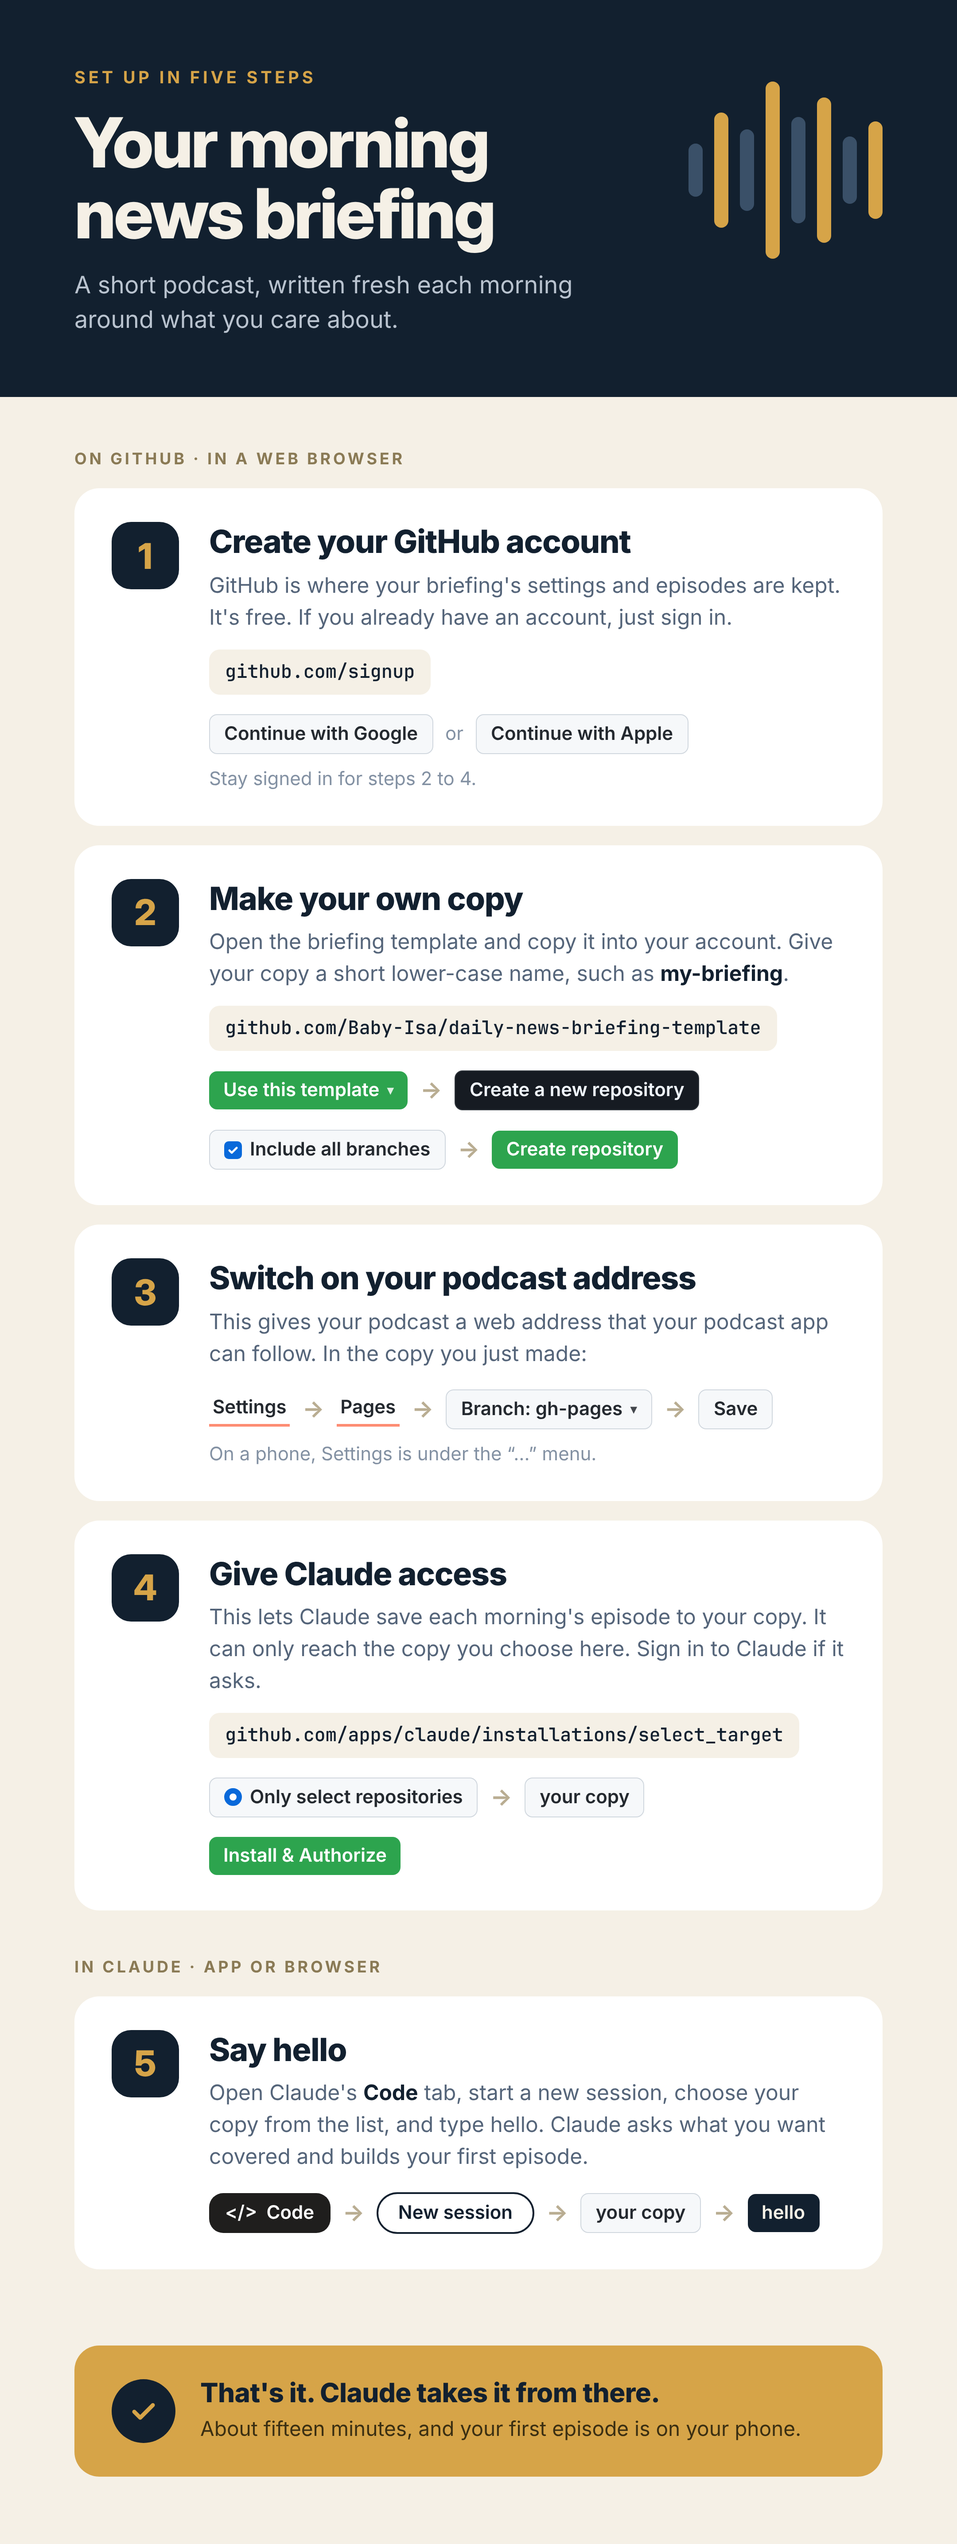
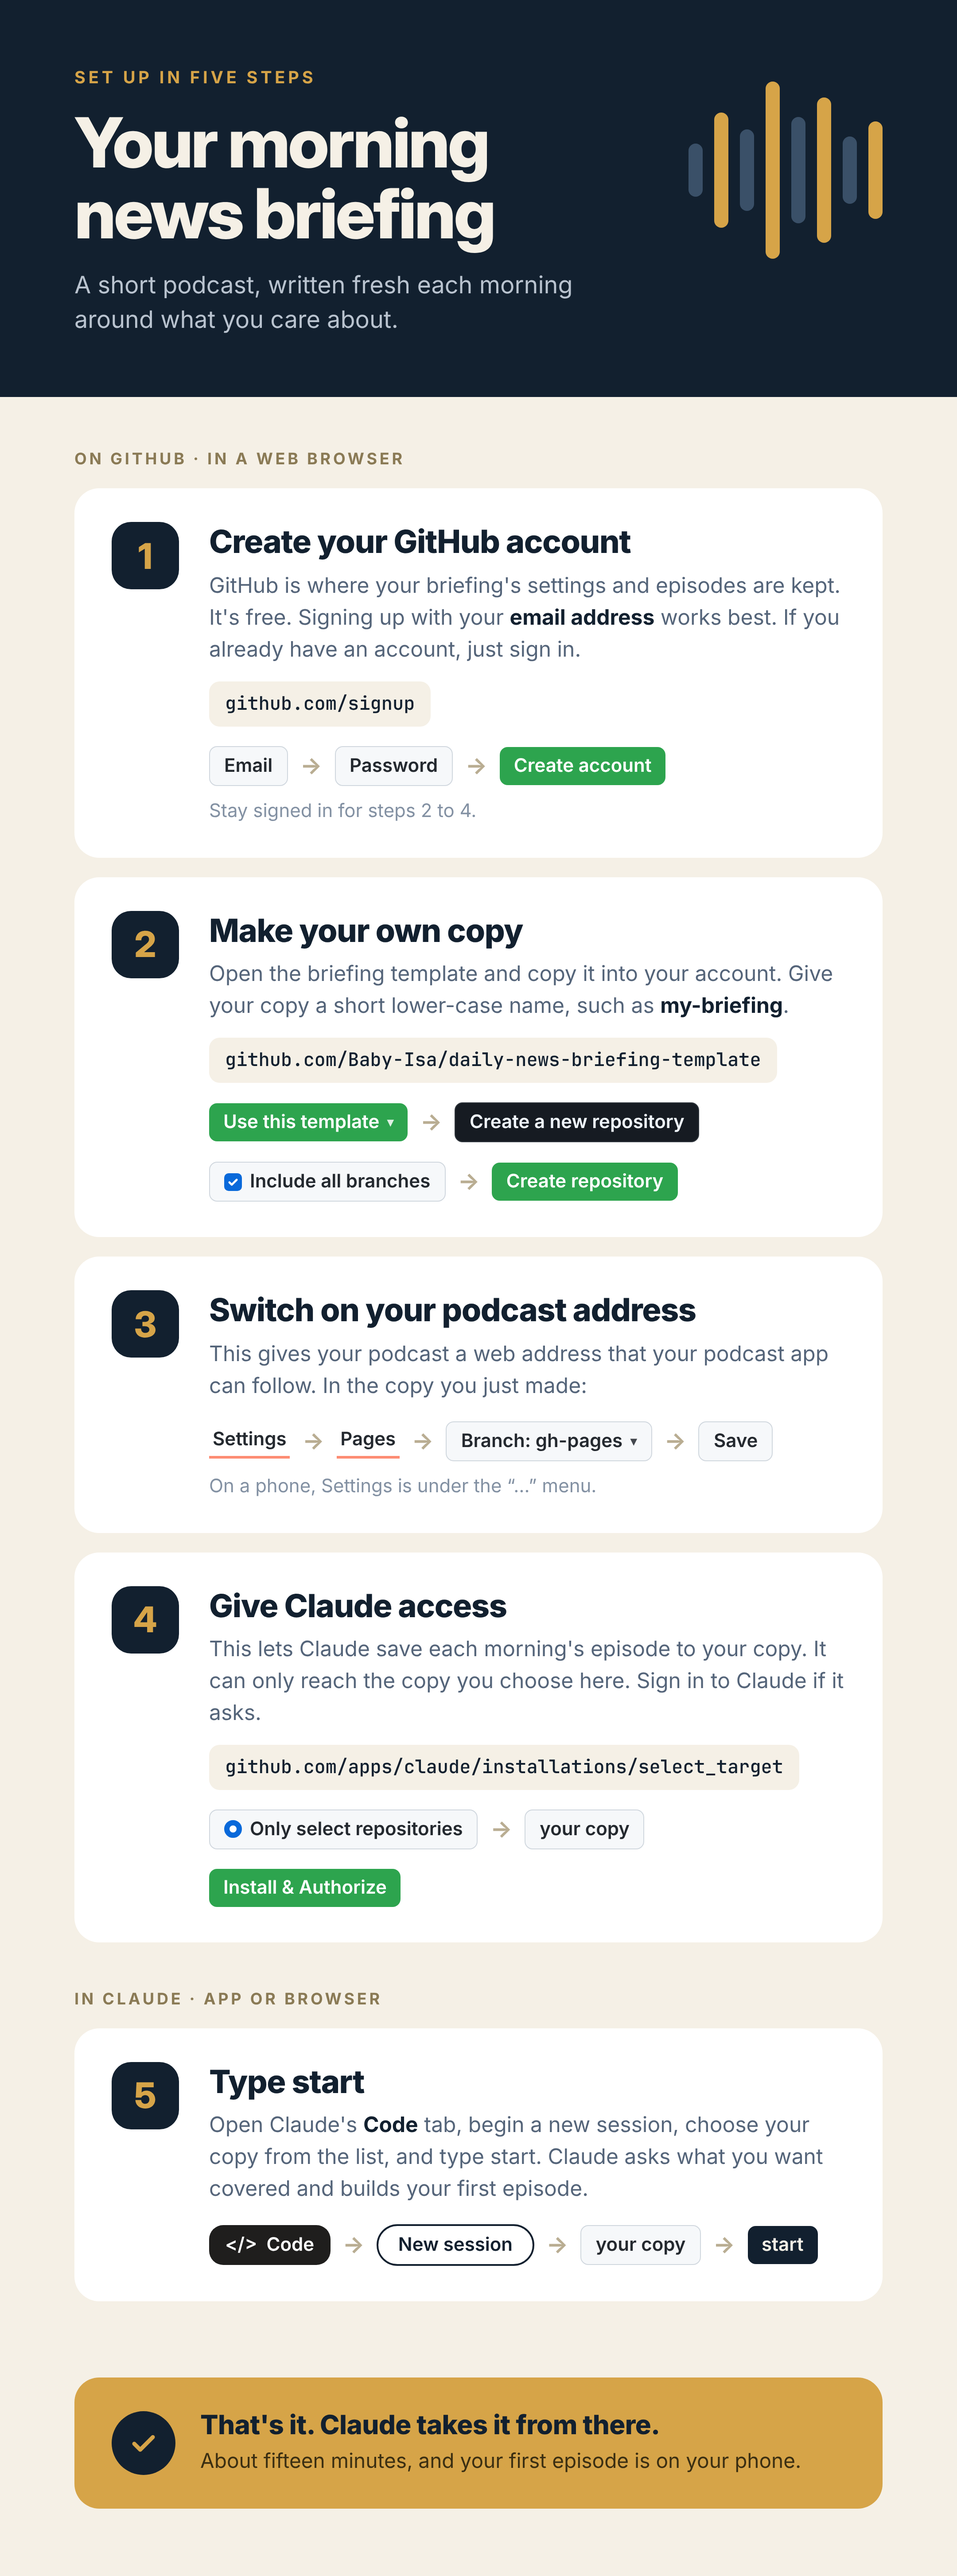
Guide and README: sign up with email; type start
Claude-Session: https://claude.ai/code/session_014xb3kSs1bFerZKEqYihqMs

diff --git a/template/README.md b/template/README.md
@@ -18,8 +18,8 @@ stay signed in; after that you never need to go back.
 
 **1. Create your GitHub account.** GitHub is where your briefing's
 settings and episodes are kept. It is free: go to
-[github.com/signup](https://github.com/signup) and continue with Google or
-Apple. If you already have an account, just sign in.
+[github.com/signup](https://github.com/signup). Signing up with your email
+address works best. If you already have an account, just sign in.
 
 **2. Make your own copy.** Press the green **Use this template** button at
 the top of this page, then **Create a new repository**. Give it a short
@@ -38,8 +38,8 @@ choose your account, select **Only select repositories** and the copy you
 just made, and press **Install & Authorize**. If it asks you to sign in to
 Claude, do.
 
-**5. Say hello.** In Claude, open the **Code** tab, start a new session,
-pick your copy from the list, and type **hello**. Claude takes it from
+**5. Type start.** In Claude, open the **Code** tab, begin a new session,
+pick your copy from the list, and type **start**. Claude takes it from
 there: it asks what you want covered, makes a first episode, and puts it
 on your phone.
 
